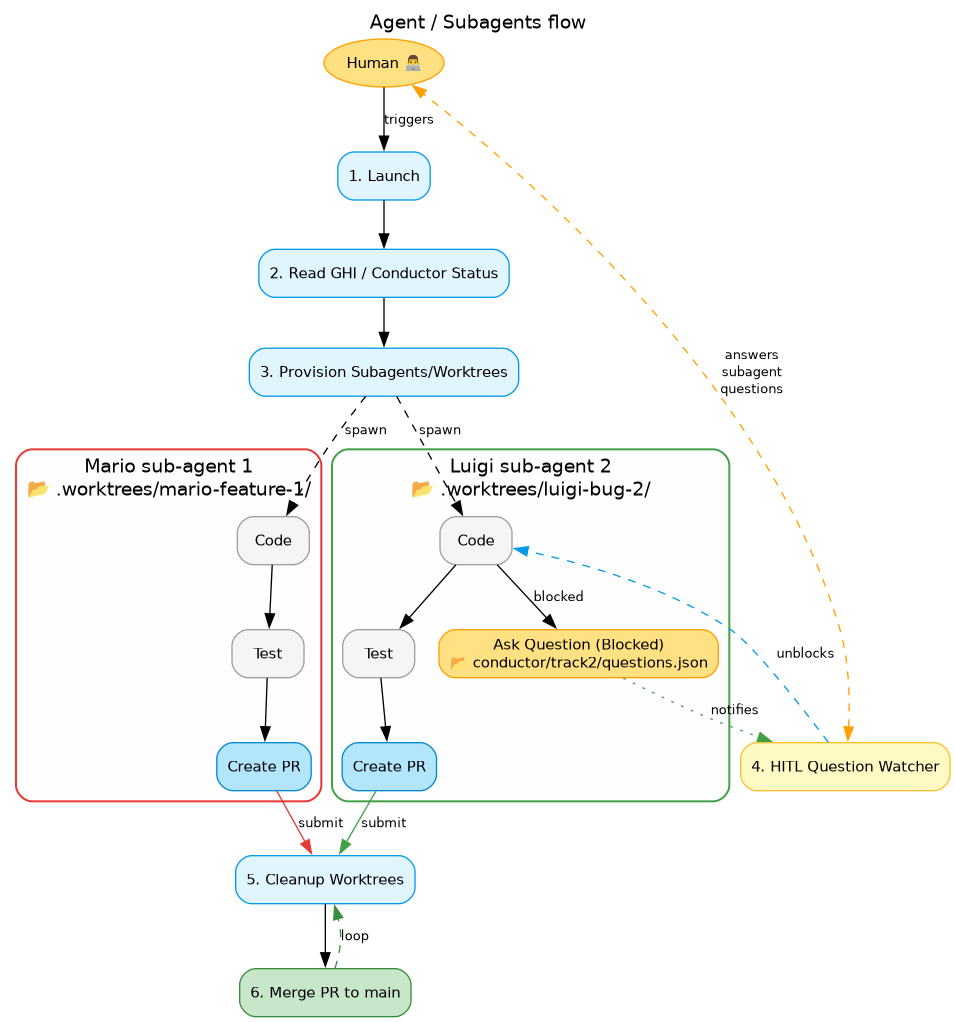
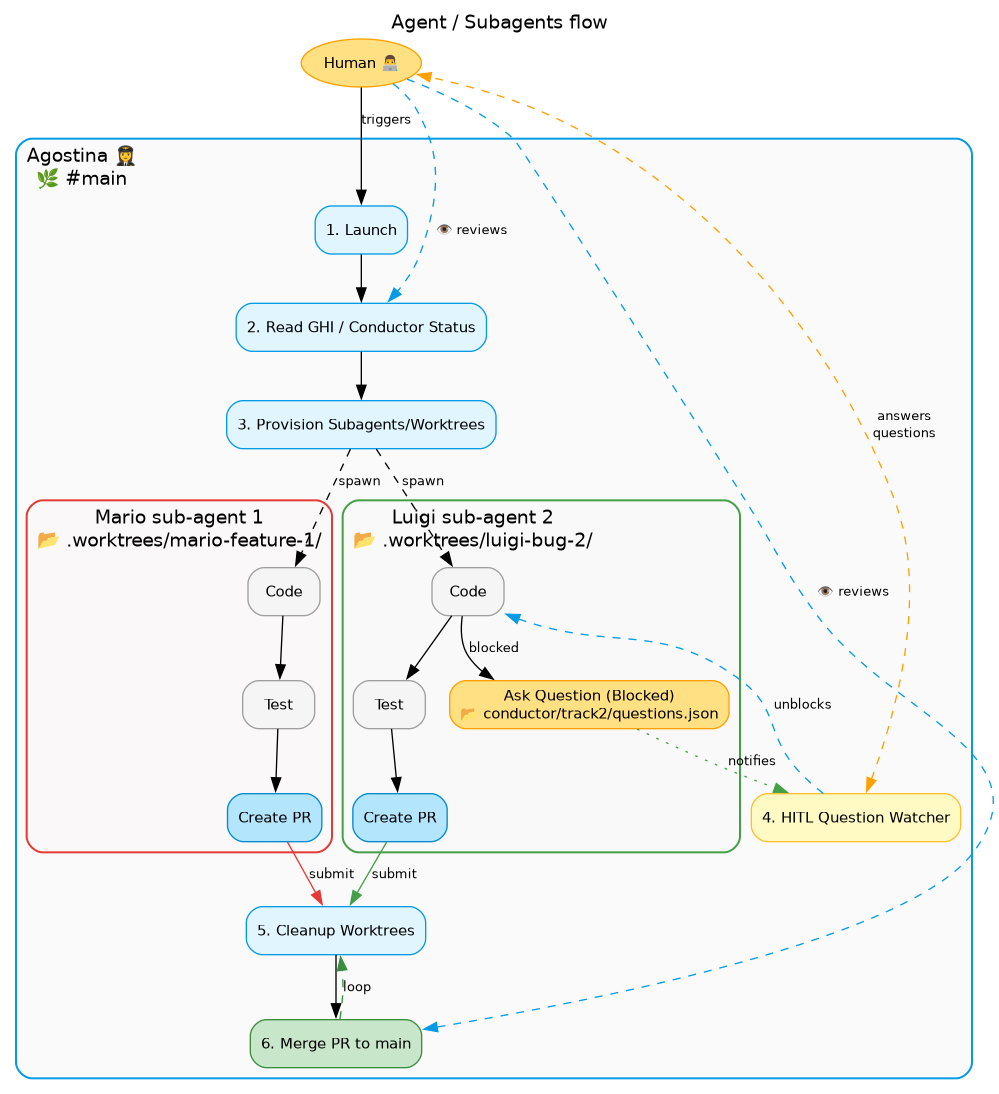
0.3.1 pre change emji

diff --git a/zzo.ricc.rocks/assets/sass/custom.scss b/zzo.ricc.rocks/assets/sass/custom.scss
@@ -79,3 +79,22 @@
     }
   }
 }
+
+/* Wikimoji Link Icons styling */
+.wikimoji-icon-wrapper {
+  display: inline-flex;
+  align-items: center;
+  vertical-align: middle;
+  margin-top: -2px;
+  
+  svg {
+    fill: currentColor;
+    display: inline-block;
+  }
+}
+
+.wikimoji-emoji {
+  display: inline-block;
+  vertical-align: middle;
+  font-family: "Apple Color Emoji", "Segoe UI Emoji", "Segoe UI Symbol", "Noto Color Emoji", sans-serif;
+}

diff --git a/zzo.ricc.rocks/content/en/posts/technology/2026-06-16-crescendo-of-agents-part-2/index.md b/zzo.ricc.rocks/content/en/posts/technology/2026-06-16-crescendo-of-agents-part-2/index.md
@@ -45,7 +45,7 @@ cd /usr/local/google/home/ricc/git/ricclife-with-gemini-pvt/work/articles/202606
 
 If you read [🪨 Part 1 of this series](https://ricc.rocks/en/posts/technology/2026-06-16-crescendo-of-agents-part-1/), you know my confession: **I'm a CLI guy** (or *cleek* as I like to call myself). I don't do UIs. But when I tried to orchestrate a team of parallel subagents to build a simple clock game (`orologia.io`), my terminal babysitting workflow completely broke down. Juggling tmux panes, file checkouts, and Apple Stickies stuck to terminal windows to track active runs was a cognitive nightmare.
 
-{{< img src="/en/posts/technology/2026-06-16-crescendo-of-agents-part-2/image-terminal-chaos.png" caption="6 macOS Desktops running agy terminals with Apple stickies representing the chaos of managing multiple parallel agent workspaces." alt="6 macOS Desktops running agy terminals with Apple stickies representing the chaos of managing multiple parallel agent workspaces." position="center" >}}
+{{< img src="/en/posts/technology/2026-06-16-crescendo-of-agents-part-2/image-terminal-chaos.png" caption="Multiple MacOS Desktops running `agy` terminals with Apple stickies representing the chaos of managing multiple parallel agent workspaces." alt="Multiple MacOS Desktops running `agy` terminals with Apple stickies representing the chaos of managing multiple parallel agent workspaces." position="center" >}}
 
 <!--more-->
 
@@ -64,6 +64,9 @@ This article highlights how Git Worktrees solve workspace pollution and file col
 I capitulated and opened the **Antigravity 2.0 UI/Desktop app** to manage the visual feedback loop of comparing my Flutter code with a 10x better, 20-second vibecoded JS prototype. It saved my sanity.
 
 But once you have a visual harness that works, the immediate developer question is: **how far can we scale this?**
+
+## Parallel Coding with Git Worktrees, Conductor++, and... "Agostina"
+
 
 This concept of using a multi-agent harness to build apps in parallel was inspired by Richard Seroter's recent article [One prompt, four subagents and ninety seconds to get a working app](https://seroter.com/2026/06/01/one-prompt-four-subagents-and-ninety-seconds-to-get-a-working-app/), where he demonstrated spawning four parallel developer agents to construct a working application in under two minutes. I read Richard's piece when it came out but had to wait a bit before getting my hands on the new Antigravity 2.0 UI harness. Yesterday (June 16), I finally sat down to play with it, and this second article is what came out of that session.
 
@@ -92,7 +95,7 @@ This clean interface has it all:
     * 🧵 Add documentation to `doc/PRD.md`
     * 🧵 Add security tests after later omg/1234.
 
-As you can see, all your unrelated work is nicely grouped by project (basically, a 📁 folder) and then all threads are aligned there, sorted by the most recent one you worked on (and yes, you can ARCHIVE them, otherwise they'll survive my wife's sadistic reboot).
+As you can see, all your unrelated work is nicely grouped by project (basically, a 📁 folder) and then all threads are aligned there, sorted by the most recent one you worked on (and yes, you can ARCHIVE them, otherwise they'll survive my wife's sadistic reboot). More importantly, now we don't need *stickies* anymore!
 
 ## When it hit me
 
@@ -137,6 +140,16 @@ In the past few months, all I wanted to do was **GitHub Issue (GHI)-triggered mu
 * `git worktree`. This is what prevents 2+ agents for making a mess out of your repo (been there done that).
   * If you have N agents pushing Pull Requests to remote branches, it makes sense to have a "Git concierge" to resolve the code to main. He should be configured to have a more conservative approach to the repo. While agent X wants to implement feature X as instructed, this Concierge will be [unfazeable](https://gurps.fandom.com/wiki/Unfazeable) as a British Alfred (turns out only GURPS players know what this means) and act as a 'last defense' for your repo consistency (maybe the code is great, but forgot to run tests, or to update the CHANGELOG... nothing's better than a fresh context window to catch these errors).
 
+### The Conductor++ Stack
+
+To build this workflow, I settled on the following core components:
+*   `git worktree` for async agent implementation.
+*   **GitHub Issues** + **Conductor** "Railways" (opinionated boundaries) for implementation.
+*   **Antigravity 2.0** as the visual harness, inspired by [Richard's article](https://seroter.com/2026/06/01/one-prompt-four-subagents-and-ninety-seconds-to-get-a-working-app/).
+*   [**State on Disk**](https://aipositive.substack.com/p/how-i-turned-gemini-cli-into-a-multi) (inspired by [Paul's article](https://aipositive.substack.com/p/how-i-turned-gemini-cli-into-a-multi)) to persist agent context across runs.
+*   *(Optional)* The [`gemini-superpowers` plugin](https://github.com/barretstorck/gemini-superpowers), which provides the `using-git-worktrees` skill to automate the worktree isolation.
+
+
 ### 🛠️ Equip Your Agents with the "condutree" Skill
 
 To make this entire multi-agent git-worktree workflow reusable for any codebase, I packaged these exact rules and automations into an open-source agent skill called [**`conductor-worktree-hitl`**](https://github.com/palladius/gemini-cli-custom-commands/tree/main/skills/conductor-worktree-hitl) (or `condutree` for close friends).
@@ -163,30 +176,6 @@ While `condutree v1.0` is a solid foundation, it still has a few manual edges th
 
 {{< img src="/en/posts/technology/2026-06-16-crescendo-of-agents-part-2/image-cooking-agents-mess.png" caption="Too many coding subagents making a mess of a single branch without git worktree isolation (an AI-generated illustration of the 'too many cooks in the kitchen' metaphor applied to git merges)." alt="Too many coding subagents making a mess of a single branch without git worktree isolation (an AI-generated illustration of the 'too many cooks in the kitchen' metaphor applied to git merges)." position="center" >}}
 
-## Case Study 2: The Flutter Complexity Wall (`orologia.io`)
-
-Do you remember [orologia.io](https://palladius.github.io/orologia.io/) from Article 1 (TODO link)?
-
-To put this parallel multi-agent orchestration to the test, I wanted to build `orologia.io` - a mobile/web clock game designed to help kids learn how to read analog clocks. 
-
-Inspired by the "Seroter Hotels" prompt, I set up a team of four parallel subagents:
-1.  **Lead Architect**: Designs Flutter app state and writes the `architecture.md` spec.
-2.  **Game Logic Developer**: Implements the Dart clock hand angle calculations and unit tests.
-3.  **UI/Flutter Developer**: Implements the CustomPainter interactive clock hands and animations.
-4.  **QA Automation Engineer**: Writes tests and runs an autonomous browser/device integration test script (using Selenium/Playwright) against a local simulator.
-
-We let the agents run for two hours. They spawned isolated worktrees, wrote complex widget trees, and compiled unit tests. But when the simulator booted, the final Flutter UI was clunky, misaligned, and simply lacked polish. 
-
-Frustrated, I did a **20-second vibe-coding run** instead. I asked a single agent to spin up a prototype using raw, simple HTML, CSS, and vanilla JS. The result was **10x better** than the planned Flutter app—smooth, responsive, and actually fun to play.
-
-Rather than discarding the Flutter project, we used the vibe-coded JS app as a "visual spec" to teach the Flutter subagents how the clock should render.
-
-Juggling this loop—running the local JS mock, reviewing the automated integration test screenshot (`gameplay_snapshot.png`), and checking subagent compiler errors—pushed the CLI to its cognitive limits. Juggling tmux panes and tailing logs across workspaces was too slow. This was the tipping point where we transitioned to the **Antigravity 2.0 Desktop app**. The thread manager allowed us to visually coordinate the parallel execution channels and review the generated image outputs in real time.
-
-![QA Agent Gameplay Test Snapshot](https://raw.githubusercontent.com/palladius/orologia.io/main/solutions/antigravity2.0-multi-agent-flutter/artifact/gameplay_snapshot.png)
-
-*(You can see the actual Dart code, integration tests, and assets inside the open-source [orologia.io repository](https://github.com/palladius/orologia.io).)*
-
 ## Scaling Up: Conductor++ Multi-Worktree Multi-Agent Dev Flow
 
 To see how far we could push this parallel execution model, we built [Project Benjamin](https://github.com/palladius/adk-sre-benjamin)—a complex, real-world SRE automation and incident command simulator. We weren't just testing toy apps; we wanted to run a multi-agent system that could audit cloud environments and coordinate incidents across multiple isolated workspaces at the same time.
@@ -209,9 +198,9 @@ Before we could run this without file collisions and merge chaos, we had to solv
         ```
         This instructs Git to dynamically ignore the symlink inside that specific worktree, keeping working trees 100% clean.
 
-*   **Personifying the Coordinator**: To give our DevFlow an approachable, unflappable personality, we named our Lead Git Concierge coordinator **Agostina**. Agostina behaves like a calm, organized Italian concierge running on espresso, ensuring that parallel subagents (Mario, Luigi, etc.) remain in sync without stepping on each other's toes.
+*   **Personifying the Coordinator**: To give our DevFlow an approachable, unflappable personality, we named our Lead Git Concierge coordinator **Agostina**. Agostina behaves like a calm, organized Italian concierge running on espresso, ensuring that parallel subagents (Mario, Luigi, etc.) remain in sync without stepping on each other's toes. (Of course she's Italian, and sounds like Antigravity)
 
-*   **The Amanuense Scribe Agent**: To maintain a high-resolution, real-time chronicle of all parallel development events, we introduced a dedicated scribe agent called **Amanuense**. Amanuense continually logs directory creation, code changes, and agent interactions with precise timestamps, outputting them to a central audit file so developers can audit exactly who did what, when, and in which worktree.
+*   **The Amanuense Scribe Agent**: To maintain a high-resolution, real-time chronicle of all parallel development events, we introduced a dedicated scribe agent called **Amanuense**. Amanuense continually logs directory creation, code changes, and agent interactions with precise timestamps, outputting them to a central audit file so developers can audit exactly who did what, when, and in which worktree. Note: [amanuense](https://en.wikipedia.org/wiki/Amanuensis) is Italian for scribe and it was created for two main reasons (1) Check the smarts in aubs-agent syncrhonization with other agents. and (2) get the timestamps and logs to write this article factually.
 
 ### 2. The Logic: Parallelism Without the Chaos
 
@@ -224,19 +213,16 @@ Running multiple AI agents coding in parallel on the exact same repository requi
     2.  **GitHub GHI Comments**: Subagents post the question as an issue comment with a unique tracking signature: `[conductree:<track_id>:<question_id>]`.
     3.  **Smart Polling**: Agostina runs a polling script that first checks if any local track is in `"awaiting_human"` status. If none are, it skips the GitHub API poll entirely (saving 95%+ of API quota). When it finds a matching comment answer on GitHub, it updates the local metadata to `"answered"`, waking up the subagent.
 
-*   **Shared Wiki-Memory as Agent State**: Rather than bloating each subagent's context window with the entire project history, we use a shared `conductor/` directory as a persistent **"Wiki-Memory"**. This aligns with [Andrej Karpathy's LLM Memory gist](https://gist.github.com/karpathy/442a6bf555914893e9891c11519de94f) and [LangChain's Wiki-Memory concept](https://www.langchain.com/blog/wiki-memory)—treating a structured local directory like a Wikipedia page that agents dynamically read and write to maintain long-term context. As my friend Dave Rensin notes in his article [Elephants, Goldfish, and the New Golden Age of Software Engineering](https://drensin.medium.com/elephants-goldfish-and-the-new-golden-age-of-software-engineering-c33641a48874), managing agent memory effectively is what prevents our AI assistants from behaving like goldfish.
+*   **Shared Wiki-Memory as Agent State**: Rather than bloating each subagent's context window with the entire project history, we use a shared `conductor/` directory as a persistent **"Wiki-Memory"**. This aligns with [Andrej Karpathy's LLM Memory gist](https://gist.github.com/karpathy/442a6bf555914893e9891c11519de94f) — treating a structured local directory like a Wikipedia page that agents dynamically read and write to maintain long-term context. As my friend [Dave Rensin](https://drensin.medium.com/) notes in his article [Elephants, Goldfish, and the New Golden Age of Software Engineering](https://drensin.medium.com/elephants-goldfish-and-the-new-golden-age-of-software-engineering-c33641a48874), managing agent memory effectively is what prevents our AI assistants from behaving like goldfish.
 
 *   **Cascading Conflict Loop Resolution**: In a parallel multi-worktree execution flow, merging the completed feature branches one-by-one can create a "cascading conflict" scenario. Imagine Mario's branch is merged cleanly into the validation branch, but Luigi's branch has merge conflicts. 
     If the human developer resolves Luigi's conflict directly on the validation branch, Luigi's original feature branch in `.worktrees/telegram_incident_creation/` is still conflicting and out-of-date. To prevent this drift, Agostina automatically cherry-picks or merges the conflict resolution back into Luigi's feature branch. This ensures that the subagent's isolated worktree remains up-to-date and syntactically aligned with the validated codebase.
 
 *   **Pushing to Pull Requests (PRs) & Visualization**: Instead of having the coordinator push the merged validation branch directly to `main` (which bypasses code review gates), we route the final integration through a **Pull Request (PR)**.
-    1.  **The Flow**: Subagents commit locally. Agostina pulls, validates, and merges the branches locally. Once all integration tests pass, Agostina pushes the unified integration branch to remote and invokes the `gh` CLI to create a Pull Request:
-        ```bash
-        gh pr create --title "feat: unified parallel implementation" --body "..."
-        ```
+    1.  **The Flow**: Subagents commit locally. Agostina pulls, validates, and merges the branches locally. Once all integration tests pass, Agostina pushes the unified integration branch to remote and invokes the `gh` CLI to create a Pull Request: `gh pr create --title "feat: ..." --body "..."`
     2.  **PR Visualization**: The human operator reviewer can visually inspect diffs, review CI checks, and interact with the code using GitHub's native UI. To make this process fully transparent, Agostina updates the Conductor registry's `metadata.json` with the created PR URL and displays active PR status locally using `gh pr list` and `gh pr status`.
 
-*   **Conceptual Incompatibility & Subagent Termination**: Parallel execution can also lead to conceptual conflicts or logical incompatibilities between two tracks (e.g., track A implements a feature that track B refactors in an incompatible way). If Agostina detects such irregularities, she is authorized to immediately terminate one of the conflicting subagents. The cancellation must be documented directly on the GHI (GitHub Issue) for the terminated agent's task, and the issue must be blocked/linked against the other active agent's GHI to preserve clear decision ancestry.
+*   **Conceptual Incompatibility & Subagent Termination**: Parallel execution can also lead to conceptual conflicts or logical incompatibilities between two tracks (e.g., track A implements a feature that track B refactors in an incompatible way). If Agostina detects such irregularities, she is authorized to immediately terminate one of the conflicting subagents. The cancellation must be documented directly on the GHI (GitHub Issue) for the terminated agent's task, and the issue must be blocked/linked against the other active agent's GHI to preserve clear decision ancestry. Note: This happened once. :)
 
 ### 3. The Execution: Orchestration Lifecycle
 
@@ -262,26 +248,23 @@ The full 6-step lifecycle is structured as:
 2. **GH Issue** answering (Jules / `@gemini` CLI style).
 3. By talking to main agent via `questions.json`. While this is the simplest, I wasn't able to be automagically unblocked - had to trigger it myself. So I discarded this approach but I'm sure this can be solved via [hooks](https://antigravity.google/docs/hooks) or in future releases.
 
-### Lessons learnt 
 
-My **#1 lesson learnt** is: try to keep the conversation with a single agent, try to delegate to sub-agents only simple / pre-determined tasks, which requires no interaction. Two tips for this: 
 
-* `/roastme` is great to ask hard questions to let then the agent go unimpeded.
 
-* Conductor is great at asking hard questions so that it can work by himself. This is why i love conductor! In other words: you answer all the questions between 09:30 and 10:00 and then go for a cycle ride, and at lunch you have an app; this is a smart alternative to a contiunuous interruption cycle of 30s question / 5m dev time.
-
-## Case Study 1: [Project Benjamin](https://github.com/palladius/adk-sre-benjamin) (Full Multi-Agent Speed Run)
-
-To prove that our Conductor++ Multi-Worktree pipeline works in real production environments, I wanted to try it out on a REAL thing. I chose [Project Benjamin](https://github.com/palladius/adk-sre-benjamin) as a test case. 
+## Case Study: [Project Benjamin](https://github.com/palladius/adk-sre-benjamin) (SRE on ADK steroids)
 
 <!-- Note for gemini: the link  https://medium.com/google-cloud/ops-i-did-it-again-the-sre-extension-is-out-d06baaccf7a0 is also on ricc.rocks - link to that one if the oyutput is RR -->
-In case you wonder, [Benjamin](https://github.com/palladius/adk-sre-benjamin) is my attempt at creating a web app around my awesome **SRE Extension**. What is the SRE Extension? Time for [🪨 another article](/en/posts/technology/2026-06-05-ops-i-did-it-again-the-sre-extension-is-out/) !
+
+To prove that our Conductor++ Multi-Worktree pipeline works, I wanted to try it out on a REAL thing. I chose [Project Benjamin](https://github.com/palladius/adk-sre-benjamin) as a test case. 
+In case you wonder, [Benjamin](https://github.com/palladius/adk-sre-benjamin) is my attempt at creating a web app around my awesome **SRE Extension**. What is the SRE Extension? Time for [🪨 another article](/en/posts/technology/2026-06-05-ops-i-did-it-again-the-sre-extension-is-out/) ! 
+
+**Why** is this a good case? Because it contains a [good number of features](https://github.com/palladius/adk-sre-benjamin/issues?q=is:issue), which can be develeoped in parallel: frontend, backend, an LLM chat, a telegram chatbot, OpenTelemetry tracing, GCP discovery, ... it's basically a mess but a fun one to have!
 
 We went into **full multi-agent mode**. Instead of playing with one or two toy features, we took **12 complex, critical SRE capabilities** and broke them down into **more than 20 concrete GitHub Issues (GHIs)**. 
 
 Then, we let the machine rip. 
 
-In just **5 hours**, the Conductor++ pipeline successfully built, tested, and merged **all 20+ GHIs** into the main branch! 
+In just **5 hours** (mostly unsupervised!), the Conductor++ pipeline successfully built, tested, and merged **all 20+ GHIs** into the main branch! 
 
 The scope of implementation was massive: from setting up OpenTelemetry (`OTEL`, not to be confused with Seroter Hotels!) tracing in Cloud Run to writing interactive Telegram incident wizards and pending mutation approval registries.
 
@@ -377,16 +360,23 @@ Here is the terminal console output captured during initialization:
 ================================================================================
 ```
 
+##### Wait, Riccardo, are GHI and Conductor tracks the same?
+
+Glad you've asked! I've asked Gemini to detect drift between Conductor and GitHub:
+
 {{< img src="/en/posts/technology/2026-06-16-crescendo-of-agents-part-2/image-conductor-inspector-short-v1.png" caption="Conductor inspector CLI displaying the overview of active worktrees, branches, and subagent assignments." alt="Conductor inspector CLI displaying the overview of active worktrees, branches, and subagent assignments." position="center" >}}
 
 {{< img src="/en/posts/technology/2026-06-16-crescendo-of-agents-part-2/image-conductor-inspector-short-v2.png" caption="Conductor inspector detail view highlighting a pending Human-in-the-Loop question waiting for human input on GitHub Issues." alt="Conductor inspector detail view highlighting a pending Human-in-the-Loop question waiting for human input on GitHub Issues." position="center" >}}
 
-{{< img src="/en/posts/technology/2026-06-16-crescendo-of-agents-part-2/image-screenshot-10-23-32.png" caption="Antigravity UI thread tracker showing active tracks in progress." alt="Antigravity UI thread tracker showing active tracks in progress." position="center" >}}
 
 #### Step 2: Parallel Worktree Isolations
 Each agent checked out its own branch and worked in isolation. The Amanuense scribe logged precise file edits and workspace activity without file conflicts.
 
 {{< img src="/en/posts/technology/2026-06-16-crescendo-of-agents-part-2/image-screenshot-11-51-44.png" caption="Monitoring the worktree files during concurrent development." alt="Monitoring the worktree files during concurrent development." position="center" >}}
+
+Look how these beautiful sjub-agents work on Antigravity, this would make Richard so proud!
+
+{{< img src="/en/posts/technology/2026-06-16-crescendo-of-agents-part-2/image-screenshot-12-07-11.png" caption="Antigravity UI thread tracker showing active tracks in progress." alt="Antigravity UI thread tracker showing active tracks in progress." position="center" >}}
 
 #### Step 3: Interactive Polling & Human Steering
 When agents needed clarification, they posted issues that were parsed by `poll_ghi_questions.py`. 
@@ -395,7 +385,7 @@ To make this human-in-the-loop (HITL) steering truly mobile-friendly, we impleme
 
 ##### 🤖 Deep Dive: The Telegram Sidecar Bridge
 
-The Telegram Sidecar Bridge is registered as an Antigravity background daemon. It enables parallel coding subagents and SRE coordinators (like Agostina) to send questions or approval requests directly to the developer's Telegram account, poll for the response, and resume execution once answered.
+The Telegram Sidecar Bridge is registered as an Antigravity background daemon. It enables parallel coding subagents and SRE coordinators (like Agostina) to send questions or approval requests directly to the developer's Telegram account, poll for the response, and resume execution once answered. 
 
 {{< img src="/en/posts/technology/2026-06-16-crescendo-of-agents-part-2/telegram_sidecar.png" caption="Telegram Sidecar Asynchronous HITL Flow" alt="Telegram Sidecar Asynchronous HITL Flow" position="center" >}}
 
@@ -429,15 +419,16 @@ Once all feature branches were validation-checked and sequentially merged, Agost
 
 Were they all 100% perfectly tested, also in their mutual interactions? Not so much; but this is for a third article.
 
-## The coding Framework
+## Lessons Learnt & Key Takeaways
 
-I want to use:
-* `git worktree` for async agent implementation
-* *GitHub Issues* + *Conductor* "Railways" (someone would say boundaries) for implementation.
-* The [`gemini-superpowers` plugin](https://github.com/barretstorck/gemini-superpowers), which provides the `using-git-worktrees` skill used to isolate our parallel subagents.
-* "Antigravity 2.0" as harness, inspired by [Richard's article](https://seroter.com/2026/06/01/one-prompt-four-subagents-and-ninety-seconds-to-get-a-working-app/)
-* [State on Disk](https://aipositive.substack.com/p/how-i-turned-gemini-cli-into-a-multi), inspired by [Paul article](https://aipositive.substack.com/p/how-i-turned-gemini-cli-into-a-multi).
+My **#1 lesson learnt** is: try to keep the conversation with a single agent, and delegate only simple, pre-determined tasks to sub-agents that require no interaction. Two key practices for this: 
 
+*   **Minimize agent/human wait-time**: Using `/roastme` is great to ask hard questions upfront so the agent can go unimpeded. **Conductor** is excellent at gathering questions offline. Instead of a continuous interruption cycle of 30-second questions every 5 minutes, you answer all questions in a single 30-minute block, go for a cycle ride, and return to a finished app.
+*   **Keep the Agent/sub-agent relationship lean**: Don't overcomplicate the coordination between agents. While the industry will move toward complex multi-agent hierarchies, in 2026 we should stick to simple, repeatable tasks (implementation-heavy, low-ambiguity) to avoid unnecessary orchestration overhead.
+
+![Roastme in Conductor](2jul roastme on conductor.png)
+
+<!-- 
 ---
 
 > 🛠️ **Developer Note**: This page is compiled and synced from an external repository.
@@ -447,5 +438,6 @@ I want to use:
 >   ```bash
 >   cd /usr/local/google/home/ricc/git/ricclife-with-gemini-pvt/work/articles/20260605-worktree-multiagent-dev-flow/ && just build && just copy-to-ricc-rocks
 >   ```
+-->
 
 *📝 This article will also be published on Medium — link coming soon.*